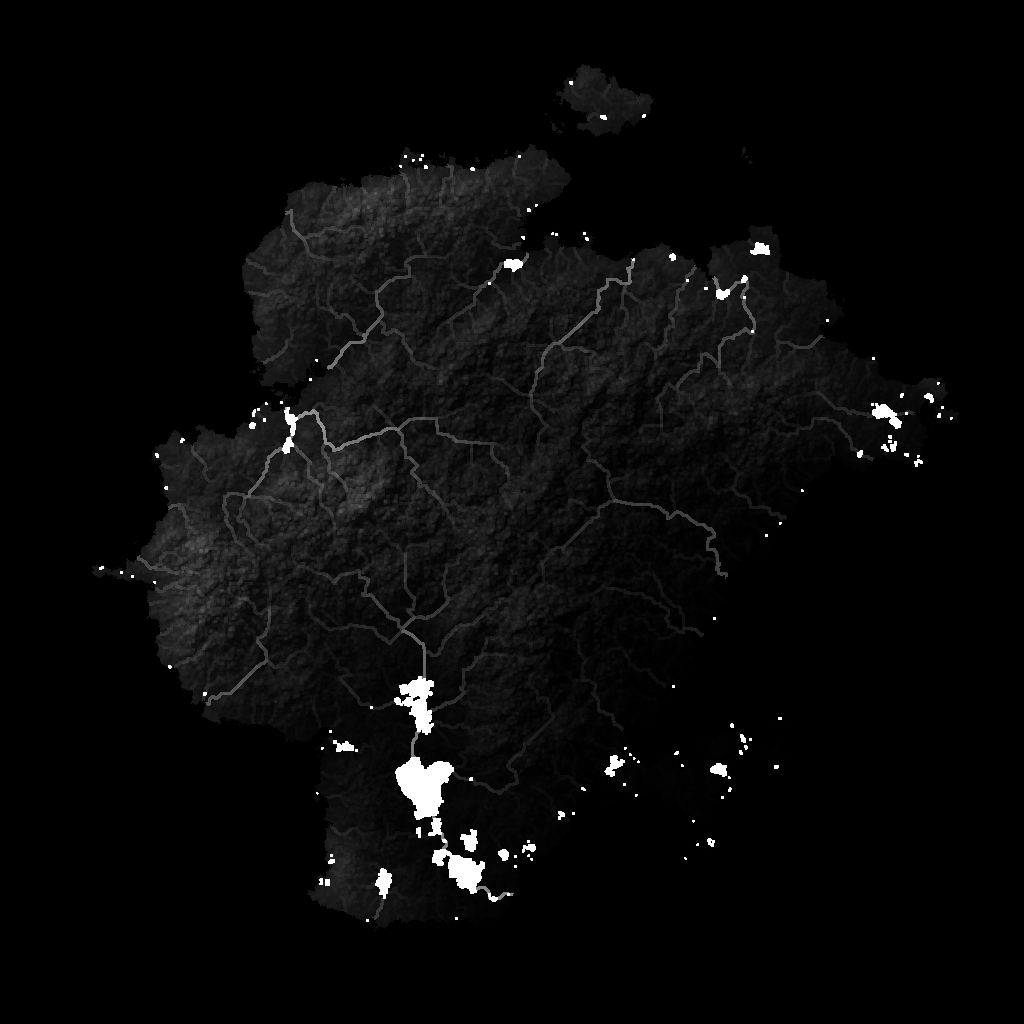
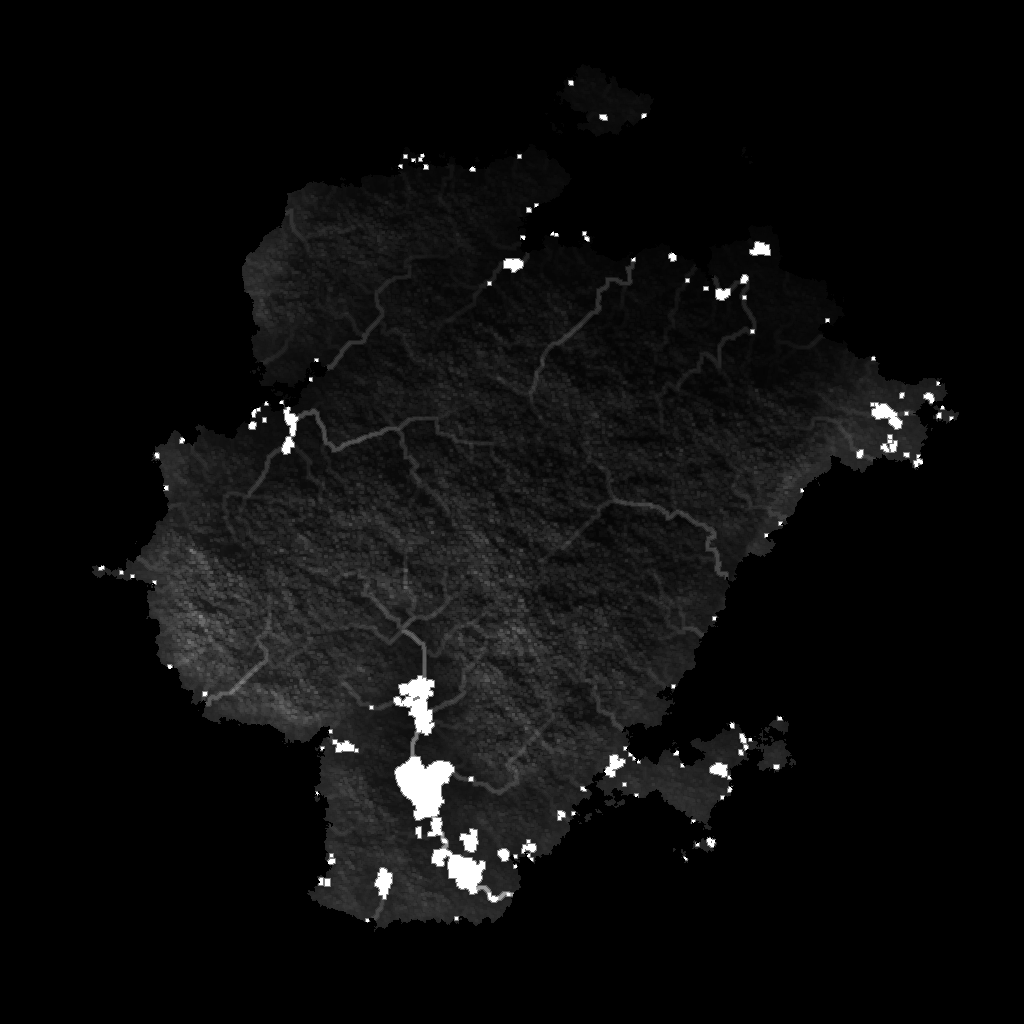
Add vegetation map

diff --git a/src/map.rs b/src/map.rs
@@ -2,15 +2,14 @@ use noise::Perlin;
 use noise::NoiseFn;
 use image::RgbImage;
 use image::Rgb;
+use num::clamp;
 
 use pathfinding::directed::dijkstra::dijkstra;
 
 use rand::Rng;
 
 use std::mem::swap;
-use std::cmp::Ordering;
 use std::collections::HashMap;
-use std::collections::BinaryHeap;
 use std::path::PathBuf;
 
 struct PerlinOctave {
@@ -80,8 +79,7 @@ pub struct ProvBuilder {
     pub rivermap: Vec<f64>,
     pub watermap: Vec<f64>,
     pub waters: HashMap<usize, Water>,
-    pub shrubs: Vec<f64>,
-    pub trees: Vec<f64>,
+    pub vegetmap: Vec<f64>,
     water_level: f64,
     water_taper: f64,
     temp_base: f64,
@@ -90,24 +88,16 @@ pub struct ProvBuilder {
     rain_wind: (f64, f64),
     rain_height: f64,
     rain_fall: f64,
+    rain_recover: f64,
     water_river: f64,
     water_rain: f64,
-}
-
-fn get_dist(i: usize, ii: usize, size: usize) -> f64 {
-    let x_i = (i % size) as f64;
-    let y_i = (i / size) as f64;
-    let x_ii = (ii % size) as f64;
-    let y_ii = (ii / size) as f64;
-
-    return ((x_i - x_ii).powi(2) + (y_i - y_ii).powi(2)).sqrt();
 }
 
 impl ProvBuilder {
     pub fn new(
         size: usize, freq: f64, pers: f64, lac: f64, min: f64, max: f64, water_level: f64, water_taper: f64, 
         temp_base: f64, temp_height: f64, temp_latitude: f64,
-        rain_wind: (f64, f64), rain_height: f64, rain_fall: f64,
+        rain_wind: (f64, f64), rain_height: f64, rain_fall: f64, rain_recover: f64,
         water_river: f64, water_rain: f64,
     ) -> Self {
         let noise = PerlinOctave {
@@ -129,8 +119,7 @@ impl ProvBuilder {
             rivermap: Vec::new(),
             watermap: Vec::new(),
             waters: HashMap::new(),
-            shrubs: Vec::new(),
-            trees: Vec::new(),
+            vegetmap: Vec::new(),
             water_level,
             water_taper,
             temp_base,
@@ -139,6 +128,7 @@ impl ProvBuilder {
             rain_wind: (rain_wind.0, -rain_wind.1),
             rain_height,
             rain_fall,
+            rain_recover,
             water_river,
             water_rain,
         }
@@ -311,12 +301,14 @@ impl ProvBuilder {
                         _ => 0.,
                     };
                     let droplets = match self.heightmap[ii] {
-                        x if x > 0. => rain * rain * self.rain_fall * (x + 1.) / 2.,
+                        x if x > 0. => rain.powf(1.5) * self.rain_fall * (x + 1.) / 2.,
                         _ => 0.,
                     };
 
                     self.rainmap[ii] = rainfall + droplets;
                     rain -= rainfall + droplets;
+                    rain += self.rain_recover;
+                    rain = clamp(rain, 0., 1.);
                 }
             }
         }
@@ -422,17 +414,36 @@ impl ProvBuilder {
 
     pub fn gen_watermap(&mut self) {
         let size = self.noise.size;
+        let sizei = size as isize;
 
         let choices = [
             (0, 0.),
             (1, 1.),
-            (-1 as isize, 1.),
-            (size as isize, 1.),
-            (-(size as isize), 1.),
-            (1 + size as isize, 2f64.sqrt()),
-            (-1 + size as isize, 2f64.sqrt()),
-            (1 - (size as isize), 2f64.sqrt()),
-            (-1 - (size as isize), 2f64.sqrt()),
+            (-1, 1.),
+            (sizei, 1.),
+            (-sizei, 1.),
+            (1 + sizei, 2f64.sqrt()),
+            (-1 + sizei, 2f64.sqrt()),
+            (1 - sizei, 2f64.sqrt()),
+            (-1 - sizei, 2f64.sqrt()),
+        ];
+        let choices2 = [
+            (2, 1.),
+            (2 + sizei, 1.),
+            (2 + sizei * 2, 1.),
+            (1 + sizei * 2, 1.),
+            (sizei * 2, 1.),
+            (sizei * 2 - 1, 1.),
+            (sizei * 2 - 2, 1.),
+            (sizei - 2, 1.),
+            (-2, 1.),
+            (-2 - sizei, 1.),
+            (-2 - 2 * sizei, 1.),
+            (-1 - 2 * sizei, 1.),
+            (-2 * sizei, 1.),
+            (1 - 2 * sizei, 1.),
+            (2 - 2 * sizei, 1.),
+            (2 - 1 * sizei, 1.),
         ];
 
         self.watermap = vec![0.; size * size];
@@ -441,7 +452,7 @@ impl ProvBuilder {
             if let Some(Water::Lake) = self.waters.get(&i) {
                 self.watermap[i] = 1.;
             } else if self.heightmap[i] > 0. {
-                let best_river = choices
+                let mut best_river = choices
                     .iter()
                     .map(|&(ii, _)| {
                         let ii = (i as isize + ii) as usize;
@@ -454,8 +465,21 @@ impl ProvBuilder {
                     })
                     .max_by(|&a, &b| a.partial_cmp(&b).unwrap())
                     .unwrap();
+                let second_best_river = choices2
+                    .iter()
+                    .map(|&(ii, _)| {
+                        let ii = (i as isize + ii) as usize;
 
-                let best_rain = choices
+                        if let Some(Water::Lake) = self.waters.get(&ii) {
+                            return 0.5;
+                        } else {
+                            return self.rivermap[ii] / 2.;
+                        }
+                    })
+                    .max_by(|&a, &b| a.partial_cmp(&b).unwrap())
+                    .unwrap();
+
+                let mut best_rain = choices
                     .iter()
                     .map(|&(ii, _)| {
                         let ii = (i as isize + ii) as usize;
@@ -468,23 +492,51 @@ impl ProvBuilder {
                     })
                     .max_by(|&a, &b| a.partial_cmp(&b).unwrap())
                     .unwrap();
+                let second_best_rain = choices2
+                    .iter()
+                    .map(|&(ii, _)| {
+                        let ii = (i as isize + ii) as usize;
+
+                        if let Some(Water::Lake) = self.waters.get(&ii) {
+                            return 0.5;
+                        } else {
+                            return self.rainmap[ii] / 2.;
+                        }
+                    })
+                    .max_by(|&a, &b| a.partial_cmp(&b).unwrap())
+                    .unwrap();
+                
+                if best_river < second_best_river {
+                    best_river = second_best_river;
+                }
+                if best_rain < second_best_rain {
+                    best_rain = second_best_rain;
+                }
                 
                 self.watermap[i] = (best_river * self.water_river + best_rain * self.water_rain) / (self.water_river + self.water_rain);
             }
         }
     }
-    /*
+    
     pub fn gen_vegetmap(&mut self) {
         let size = self.noise.size;
 
-        self.shrubs = Vec::new();
-        self.trees = Vec::new();
+        self.vegetmap = vec![0.; size * size];
 
         for i in 0..size*size {
-            self.shrubs.push()
+            if self.heightmap[i] > 0. {
+                let water = clamp(2. * self.watermap[i] - clamp((self.tempmap[i] / 50.).powi(2), 0., 1.), 0., 1.);
+                let energy = clamp(clamp(self.tempmap[i], 0., 40.).cbrt() / 40f64.cbrt(), 0., 1.);
+                let pht = clamp(match self.tempmap[i] / 10. {
+                    x if x > 3.5 => -(x - 3.).powi(2) + 1.25,
+                    x if x <= 3.5 => -(4. - x).sqrt() / 1.3 + 1.55,
+                    _ => 0.,
+                }, 0., 1.);
+
+                self.vegetmap[i] = (water * energy * pht).cbrt();
+            }
         }
     }
-    */
 
     pub fn export<T: Into<PathBuf>>(&self, map: &Vec<f64>, path: T) {
         let mut i = 0;
@@ -492,6 +544,25 @@ impl ProvBuilder {
 
         let max = map.iter().max_by(|x, y| x.partial_cmp(y).unwrap()).unwrap();
         let min = map.iter().min_by(|x, y| x.partial_cmp(y).unwrap()).unwrap();
+        let map: Vec<f64> = map.iter().map(|x| (x - min) / (max - min)).collect();
+
+        for y in 0..self.noise.size {
+            for x in 0..self.noise.size {
+                let val = (map[i] * 255.) as u8;
+                
+                i += 1;
+
+                img.put_pixel(x as u32, y as u32, Rgb([val, val, val]));
+            }
+        }
+
+        img.save(path.into()).unwrap();
+    }
+
+    pub fn export_minmax<T: Into<PathBuf>>(&self, map: &Vec<f64>, path: T, min: f64, max: f64) {
+        let mut i = 0;
+        let mut img = RgbImage::new(self.noise.size as u32, self.noise.size as u32);
+
         let map: Vec<f64> = map.iter().map(|x| (x - min) / (max - min)).collect();
 
         for y in 0..self.noise.size {

diff --git a/src/main.rs b/src/main.rs
@@ -259,7 +259,7 @@ impl Core {
 }
 
 fn main() {
-    let mut map = map::ProvBuilder::new(1024, 0.1, 0.6, 2., 0., 1., 0.1, 0.9, 16., 8., 12., (1., -1.), 1., 0.01, 2./3., 1./3.);
+    let mut map = map::ProvBuilder::new(1024, 0.1, 0.6, 2., 0., 1., 0.1, 0.9, 12., 6., 12., (1., 2.), 0.8, 0.01, 0.001, 0.5, 0.5);
 
     map.gen_heightmap();
     map.export(&map.heightmap, "heightmap.png");
@@ -278,4 +278,7 @@ fn main() {
 
     map.gen_watermap();
     map.export(&map.watermap, "watermap.png");
+
+    map.gen_vegetmap();
+    map.export_minmax(&map.vegetmap, "vegetmap.png", 0., 1.);
 }
